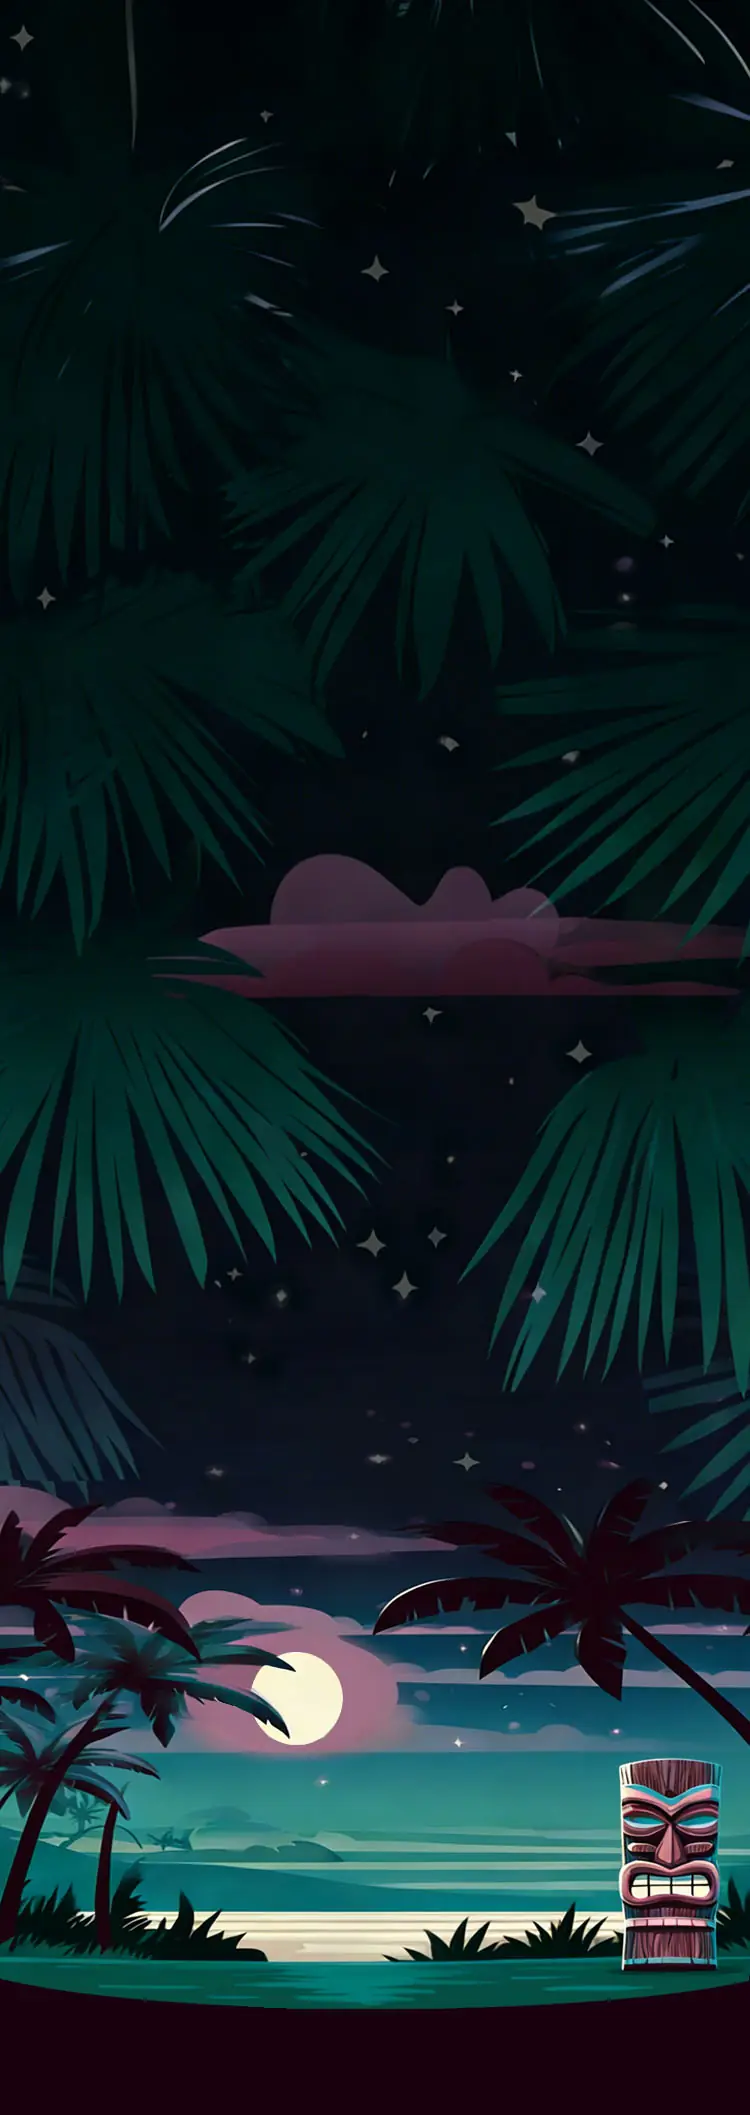
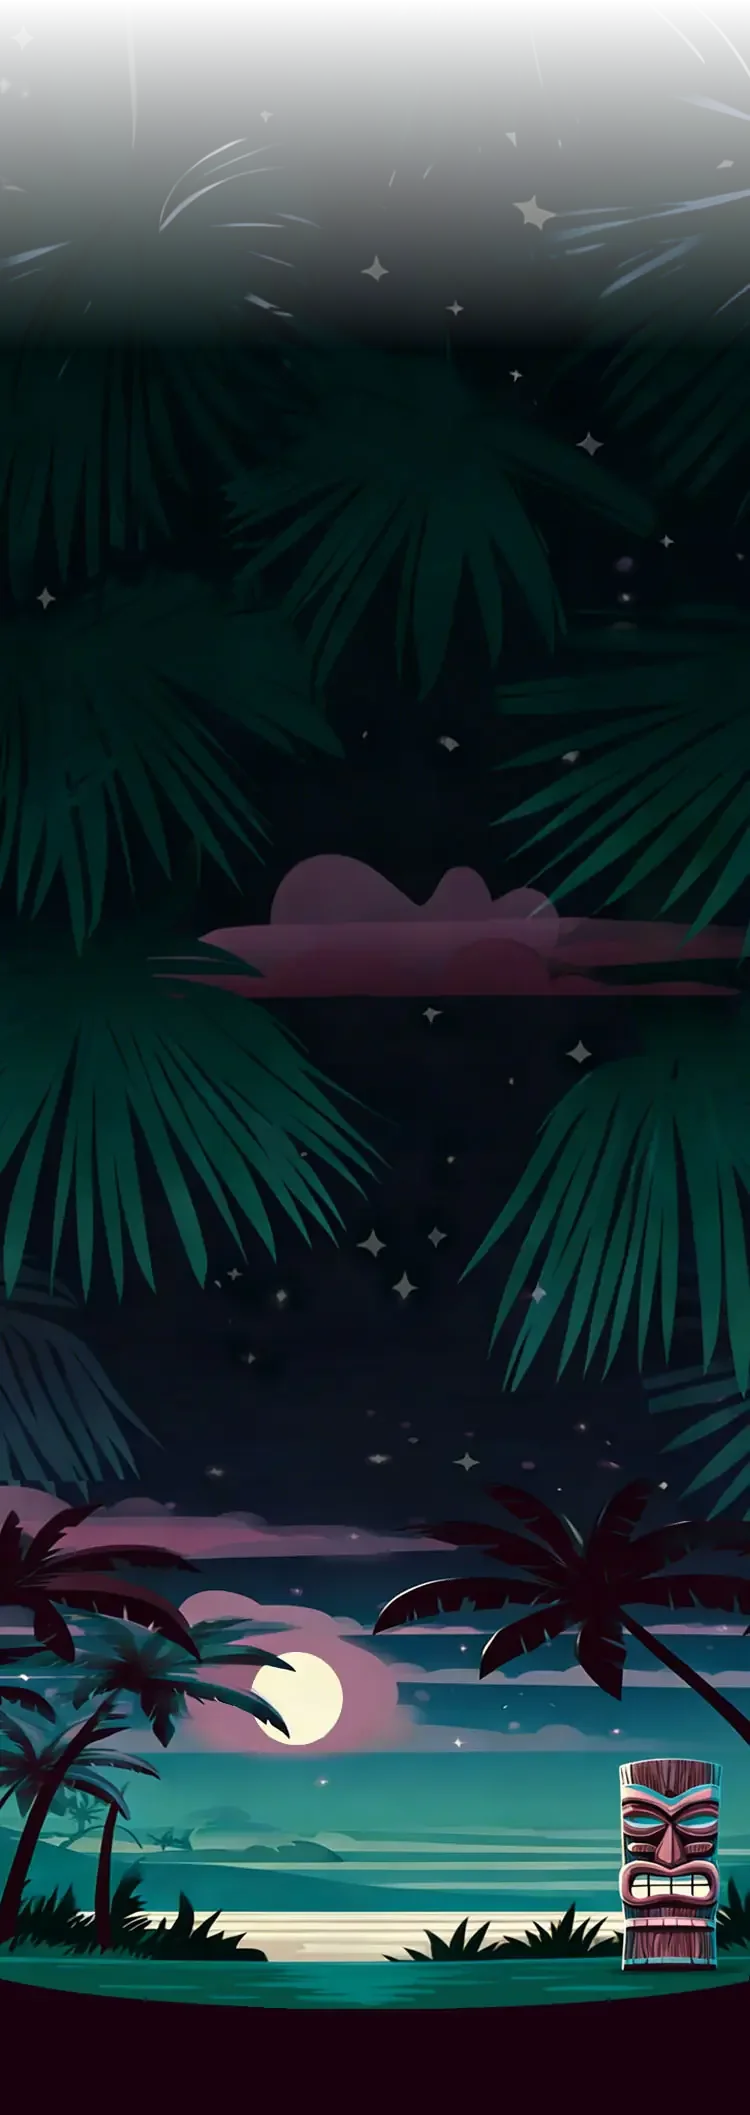
feat(web): carry the night sky down the page into the beach art (#616)
* feat(web): carry the night sky down the page into the beach art

* fix(web): stack the beach art above the sky strips and let the night texture seep through surfaces

* fix(web): brighten the night-sky cloud wisps so they read against the dark sky

* fix(web): strengthen the cloud wisps to read against the night sky

* fix(web): merge the sky into one strip with beach-style stars over the wisps

Changed region(s): [[0.0, 0.0, 1.0, 0.156]]

diff --git a/apps/web/app/layout.tsx b/apps/web/app/layout.tsx
@@ -14,6 +14,7 @@ import 'core-js/modules/es.object.group-by.js';
 import { NuqsAdapter } from 'nuqs/adapters/react';
 import AppFooter from '#/components/layout/AppFooter';
 import FullscreenHelper from '#/components/layout/FullscreenHelper';
+import nightSkyStrip from '../../../public/night-sky-strip.webp';
 import tikiBeachDivider from '../../../public/tiki-beach-divider.webp';
 import tikiLeavesTop from '../../../public/tiki-leaves-top.webp';
 
@@ -105,13 +106,23 @@ export default function RootLayout({
       </head>
       <body className={roboto.variable}>
         <NuqsAdapter>
-          {/* The app shell: a 600px column with the tiki art as two fixed
-              background layers, sized to the assets' own width (both 750px
-              today). */}
+          {/* The app shell: a 600px column carrying the night sky as fixed
+              background layers, painted here topmost first: the tiki leaves
+              at the top, the beach scene anchored to the bottom (its sky
+              fades in over ~190px via alpha baked into the webp), and one
+              night-sky strip beneath both — an opaque webp holding the sky
+              color, the beach-style glowing stars and the amplified cloud
+              wisps, with wisps faded to nothing at the column's crop lines
+              (75/675) so nothing is sliced against the flat body on
+              desktop. The strip is 750px wide, wider than the column, so its
+              left/right tile seams stay clipped out of view. */}
           <div
-            className="mx-auto flex min-h-screen max-w-[600px] flex-col bg-size-[min(100%,750px)_auto,min(100%,750px)_auto] bg-position-[center_40px,bottom_center] bg-no-repeat"
+            className="mx-auto flex min-h-screen max-w-[600px] flex-col"
             style={{
-              backgroundImage: `url(${tikiLeavesTop.src}), url(${tikiBeachDivider.src})`,
+              backgroundImage: `url(${tikiLeavesTop.src}), url(${tikiBeachDivider.src}), url(${nightSkyStrip.src})`,
+              backgroundSize: 'min(100%,750px) auto, min(100%,750px) auto, 750px auto',
+              backgroundPosition: 'center 40px, bottom center, center top',
+              backgroundRepeat: 'no-repeat, no-repeat, repeat-y',
             }}
           >
             {/* The one <main> landmark for every page (Lighthouse

diff --git a/apps/web/app/globals.css b/apps/web/app/globals.css
@@ -47,7 +47,7 @@
 :root {
   --background: #0a1420; /* Dark starry night sky */
   --foreground: #e8f4f4; /* Pale cyan-tinted white */
-  --card: rgb(10 20 32 / 0.9); /* The glass card surface: night sky at 90% */
+  --card: rgb(10 20 32 / 0.78); /* Glass card: translucent, star texture seeps through */
   --card-foreground: #e8f4f4;
   --primary: #2a8a8a; /* Turquoise ocean water */
   --primary-foreground: #ffffff;
@@ -64,7 +64,7 @@
   --radius: 0.25rem; /* The theme's corner radius */
   /* The fixed app bar: its glass fill (--header) and its height per
      orientation and breakpoint — the sticky headers offset from it. */
-  --header: rgb(10 20 32 / 0.9);
+  --header: rgb(10 20 32 / 0.85);
   --app-bar-height: 56px;
   /* Icon-art palette (TikiMark, RecipeBadges): fixed shade steps for the
      icon art. --paper is the solid surface color; --card carries the glass
